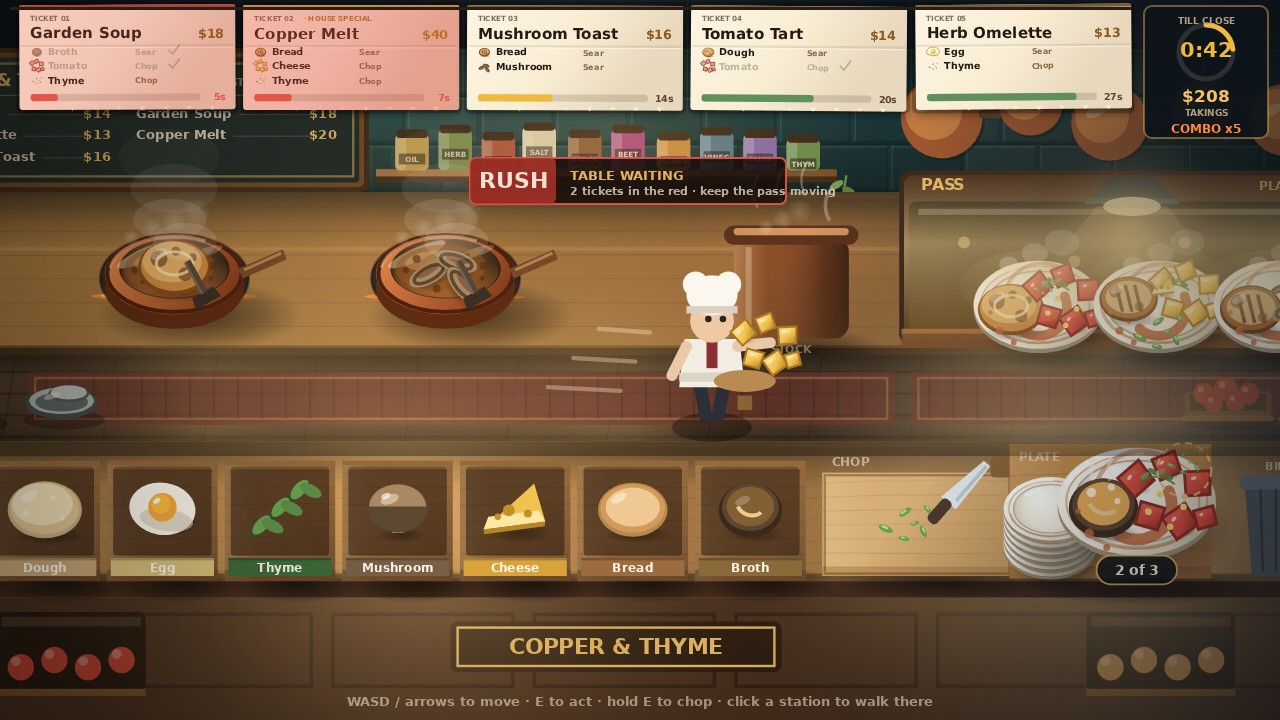
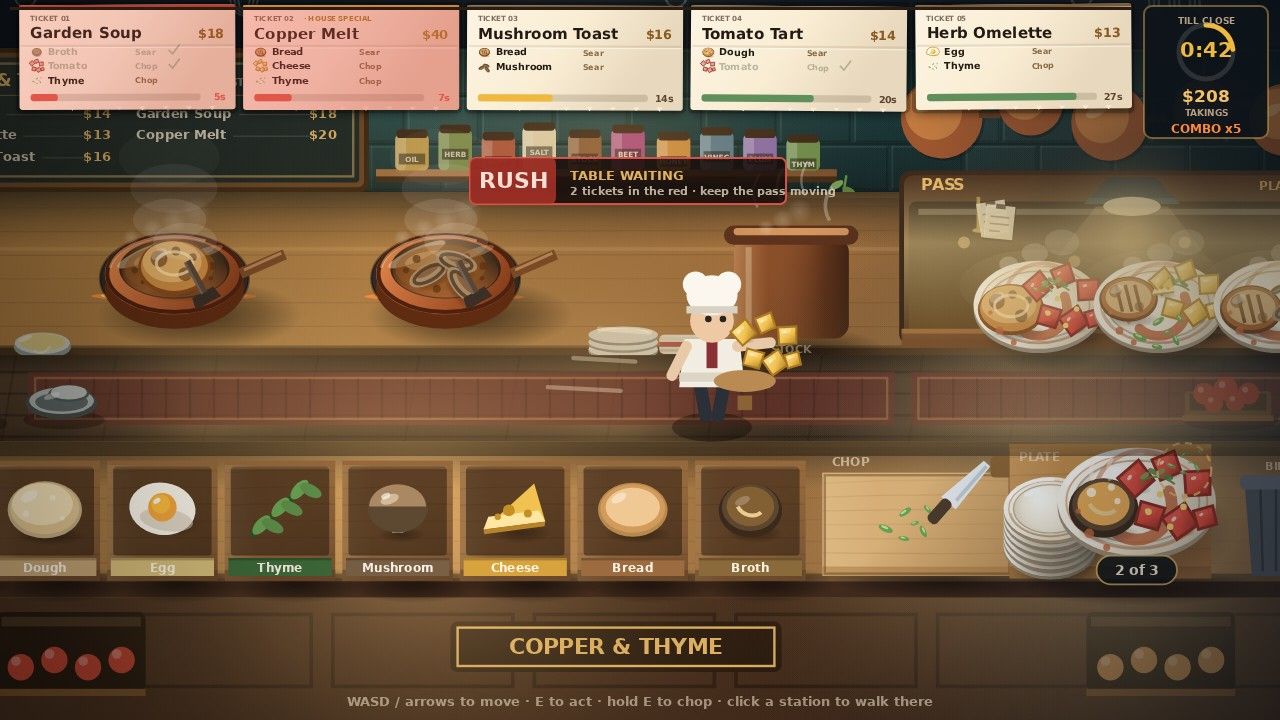
The wall, the bench and the pass: dockets and tools over the rail, a board with an onion and the plates on the far counter, clean plates and a docket spike on the pass shelf

Changed region(s): [[0.4375, 0.4278, 0.5625, 0.5194], [0.75, 0.275, 0.8125, 0.3361], [0.0, 0.4583, 0.0625, 0.4889]]

diff --git a/game/src/room.js b/game/src/room.js
@@ -189,6 +189,236 @@ function hangingPans(ctx, t) {
   }
 }
 
+/**
+ * The wall over the rail: one brass rod, the tools a line hangs on it and a run of dockets clipped
+ * along it, plus a column of chalk tallies. It sits behind the tickets in a stop darker than the
+ * cream paper, so the band above the wall is dressed without ever competing with an order card.
+ */
+function wallDressing(ctx) {
+  const rodY = 38;
+  const rod = ctx.createLinearGradient(0, rodY, 0, rodY + 6);
+  rod.addColorStop(0, 'rgba(226,190,132,0.42)');
+  rod.addColorStop(0.42, 'rgba(136,102,62,0.62)');
+  rod.addColorStop(1, 'rgba(40,28,16,0.55)');
+  ctx.fillStyle = rod;
+  ctx.fillRect(16, rodY, 1024, 5);
+  for (const bx of [16, 1036]) {
+    ctx.fillStyle = 'rgba(44,30,16,0.55)';
+    ctx.fillRect(bx - 3, rodY - 4, 8, 14);
+  }
+
+  // a pale silhouette per tool: bowl of a ladle, loops of a whisk, mesh of a sieve
+  const pale = 'rgba(206,232,222,0.26)';
+  const line = 'rgba(214,238,228,0.22)';
+  for (const [kind, tx] of [['ladle', 148], ['whisk', 330], ['sieve', 512], ['ladle', 690], ['ladle', 1028], ['sieve', 1072]]) {
+    ctx.strokeStyle = pale;
+    ctx.lineWidth = 2.4;
+    ctx.beginPath();
+    ctx.moveTo(tx, rodY + 5);
+    ctx.lineTo(tx, kind === 'sieve' ? rodY + 44 : rodY + 52);
+    ctx.stroke();
+    ctx.fillStyle = 'rgba(24,34,32,0.55)';
+    if (kind === 'ladle') {
+      ctx.beginPath();
+      ctx.ellipse(tx, rodY + 60, 9, 10, 0, 0, Math.PI * 2);
+      ctx.fill();
+      ctx.strokeStyle = pale;
+      ctx.lineWidth = 2;
+      ctx.beginPath();
+      ctx.ellipse(tx, rodY + 60, 9, 10, 0, 0, Math.PI * 2);
+      ctx.stroke();
+    } else if (kind === 'whisk') {
+      ctx.strokeStyle = line;
+      ctx.lineWidth = 1.6;
+      for (let i = 0; i < 3; i += 1) {
+        ctx.beginPath();
+        ctx.ellipse(tx, rodY + 60, 5 + i * 3.4, 13 + i * 2, 0, 0, Math.PI * 2);
+        ctx.stroke();
+      }
+    } else {
+      ctx.beginPath();
+      ctx.ellipse(tx, rodY + 52, 13, 5, 0, 0, Math.PI * 2);
+      ctx.fill();
+      ctx.strokeStyle = pale;
+      ctx.lineWidth = 1.8;
+      ctx.beginPath();
+      ctx.ellipse(tx, rodY + 52, 13, 5, 0, 0, Math.PI * 2);
+      ctx.stroke();
+      ctx.strokeStyle = 'rgba(206,232,222,0.14)';
+      ctx.lineWidth = 1;
+      for (let i = -2; i <= 2; i += 1) {
+        ctx.beginPath();
+        ctx.moveTo(tx + i * 5, rodY + 48);
+        ctx.lineTo(tx + i * 5, rodY + 56);
+        ctx.stroke();
+      }
+    }
+  }
+
+  // the run of order dockets: flimsy, clipped, each a shade off the wall
+  for (const [dx, tilt] of [[866, -0.05], [910, 0.03], [954, -0.02]]) {
+    ctx.save();
+    ctx.translate(dx, rodY + 6);
+    ctx.rotate(tilt);
+    ctx.fillStyle = 'rgba(10,18,18,0.34)';
+    ctx.fillRect(2, 3, 36, 52);
+    ctx.fillStyle = 'rgba(226,216,192,0.2)';
+    ctx.fillRect(0, 0, 36, 52);
+    ctx.strokeStyle = 'rgba(196,222,212,0.14)';
+    ctx.lineWidth = 1;
+    ctx.strokeRect(0.5, 0.5, 35, 51);
+    ctx.fillStyle = 'rgba(206,232,222,0.2)';
+    for (let i = 0; i < 4; i += 1) ctx.fillRect(6, 12 + i * 9, i === 3 ? 14 : 24, 1.6);
+    ctx.fillStyle = 'rgba(60,74,66,0.7)';
+    ctx.fillRect(14, -3, 8, 7);
+    ctx.restore();
+  }
+
+  // chalk tallies, one column, ticked through the shift
+  ctx.strokeStyle = 'rgba(214,240,228,0.2)';
+  ctx.lineWidth = 2;
+  for (let group = 0; group < 3; group += 1) {
+    const gx = 1084 + group * 17;
+    for (let i = 0; i < 3; i += 1) {
+      ctx.beginPath();
+      ctx.moveTo(gx + i * 4, 96);
+      ctx.lineTo(gx + i * 4 + 1, 120);
+      ctx.stroke();
+    }
+    if (group === 2) {
+      ctx.beginPath();
+      ctx.moveTo(gx - 2, 108);
+      ctx.lineTo(gx + 12, 112);
+      ctx.stroke();
+    }
+  }
+}
+
+/**
+ * The far counter's working stretch: the board with a half onion and the knife that cut it, the
+ * bowl of beaten egg, and a stack of clean plates with a cloth, each with its contact shadow. Set
+ * down in the gaps the pans leave, never in front of them.
+ */
+function prepBench(ctx) {
+  const base = 399;
+
+  // board, onion, knife
+  ctx.save();
+  castShadow(ctx, 62, base - 4, 56, 12, 0.42);
+  fillRound(ctx, 16, base - 22, 92, 22, 5, '#9d6c3b');
+  ctx.fillStyle = 'rgba(255,232,190,0.22)';
+  ctx.fillRect(20, base - 22, 84, 3);
+  ctx.fillStyle = 'rgba(52,32,16,0.28)';
+  ctx.fillRect(20, base - 4, 84, 3);
+  ctx.strokeStyle = 'rgba(60,38,18,0.35)';
+  ctx.lineWidth = 1;
+  for (let i = 0; i < 3; i += 1) {
+    ctx.beginPath();
+    ctx.moveTo(24, base - 17 + i * 5);
+    ctx.quadraticCurveTo(62, base - 18 + i * 5, 100, base - 16 + i * 5);
+    ctx.stroke();
+  }
+  // half onion, cut face up
+  ctx.fillStyle = '#e8dcc0';
+  ctx.beginPath();
+  ctx.ellipse(52, base - 25, 17, 11, 0, 0, Math.PI * 2);
+  ctx.fill();
+  ctx.fillStyle = '#f6efe0';
+  ctx.beginPath();
+  ctx.ellipse(52, base - 27, 14, 8, 0, 0, Math.PI * 2);
+  ctx.fill();
+  ctx.strokeStyle = 'rgba(160,120,140,0.55)';
+  ctx.lineWidth = 1;
+  for (let r = 3; r <= 11; r += 4) {
+    ctx.beginPath();
+    ctx.ellipse(52, base - 27, r, r * 0.55, 0, 0, Math.PI * 2);
+    ctx.stroke();
+  }
+  ctx.fillStyle = 'rgba(196,168,140,0.8)';
+  ctx.beginPath();
+  ctx.ellipse(52, base - 27, 2.5, 1.6, 0, 0, Math.PI * 2);
+  ctx.fill();
+  // the knife, laid down where the hand left it
+  ctx.save();
+  ctx.translate(88, base - 32);
+  ctx.rotate(-0.22);
+  ctx.fillStyle = 'rgba(12,18,20,0.3)';
+  ctx.beginPath();
+  ctx.ellipse(4, 4, 21, 4, 0, 0, Math.PI * 2);
+  ctx.fill();
+  ctx.fillStyle = '#c9d2cf';
+  ctx.beginPath();
+  ctx.moveTo(-16, -3.5);
+  ctx.lineTo(9, -1.5);
+  ctx.lineTo(9, 2.5);
+  ctx.lineTo(-16, 3.5);
+  ctx.closePath();
+  ctx.fill();
+  ctx.fillStyle = 'rgba(255,255,255,0.55)';
+  ctx.fillRect(-14, -2.5, 22, 1.4);
+  ctx.fillStyle = '#59391f';
+  fillRound(ctx, 9, -3, 15, 6, 2, '#59391f');
+  ctx.restore();
+  ctx.restore();
+
+  // bowl of beaten egg
+  ctx.save();
+  castShadow(ctx, 162, base - 2, 30, 9, 0.4);
+  ctx.fillStyle = '#8d9c96';
+  ctx.beginPath();
+  ctx.ellipse(162, base - 8, 24, 10, 0, 0, Math.PI * 2);
+  ctx.fill();
+  ctx.fillStyle = '#d7dcd4';
+  ctx.beginPath();
+  ctx.ellipse(162, base - 11, 23, 9, 0, 0, Math.PI * 2);
+  ctx.fill();
+  ctx.fillStyle = '#e8d489';
+  ctx.beginPath();
+  ctx.ellipse(162, base - 12, 19, 7, 0, 0, Math.PI * 2);
+  ctx.fill();
+  ctx.strokeStyle = 'rgba(255,250,214,0.7)';
+  ctx.lineWidth = 1.6;
+  ctx.beginPath();
+  ctx.arc(160, base - 12, 9, 0.4, 2.2);
+  ctx.stroke();
+  ctx.fillStyle = 'rgba(255,255,255,0.5)';
+  ctx.beginPath();
+  ctx.ellipse(148, base - 15, 6, 2, -0.4, 0, Math.PI * 2);
+  ctx.fill();
+  ctx.restore();
+
+  // clean plates, stacked, and the cloth they were dried with
+  ctx.save();
+  castShadow(ctx, 646, base - 3, 34, 10, 0.4);
+  for (let i = 0; i < 3; i += 1) {
+    const py = base - 6 - i * 6;
+    ctx.fillStyle = '#8c9187';
+    ctx.beginPath();
+    ctx.ellipse(646, py + 2, 29, 7, 0, 0, Math.PI * 2);
+    ctx.fill();
+    ctx.fillStyle = '#e2ddcd';
+    ctx.beginPath();
+    ctx.ellipse(646, py, 29, 7, 0, 0, Math.PI * 2);
+    ctx.fill();
+    ctx.strokeStyle = 'rgba(255,255,255,0.6)';
+    ctx.lineWidth = 1.2;
+    ctx.beginPath();
+    ctx.ellipse(646, py - 1, 21, 4.6, 0, Math.PI, Math.PI * 2);
+    ctx.stroke();
+  }
+  ctx.restore();
+  ctx.save();
+  castShadow(ctx, 700, base - 2, 26, 7, 0.32);
+  fillRound(ctx, 676, base - 18, 50, 16, 4, '#e4d9c1');
+  ctx.fillStyle = 'rgba(164,54,44,0.85)';
+  ctx.fillRect(676, base - 12, 50, 4);
+  ctx.fillStyle = 'rgba(0,0,0,0.14)';
+  ctx.fillRect(676, base - 6, 50, 2);
+  ctx.fillStyle = 'rgba(255,255,255,0.22)';
+  ctx.fillRect(678, base - 18, 46, 2);
+  ctx.restore();
+}
+
 /** The far counter: the hot line, the stock pot and the shelf under it. */
 function backCounter(ctx, t) {
   plank(ctx, L, BACK.top, W, BACK.bottom - BACK.top, PALETTE.counter, '#6b4526', PALETTE.counterTop);
@@ -428,11 +658,13 @@ export function drawRoom(ctx, t) {
   ctx.fillStyle = PALETTE.night;
   ctx.fillRect(L, WALL.top - 320, W, BOTTOM - WALL.top + 320);
   tileWall(ctx);
+  wallDressing(ctx);
   chalkboard(ctx);
   shelf(ctx);
   hangingPans(ctx, t);
   lightPool(ctx, 640, WALL.bottom, 260, 'rgba(255,206,132,0.4)', 0.4);
   backCounter(ctx, t);
+  prepBench(ctx);
   barFront(ctx);
   aisle(ctx);
   frontCounter(ctx);

diff --git a/game/src/pass.js b/game/src/pass.js
@@ -2,7 +2,7 @@
 // when a dish goes out — the lamp flares, the plate slides under it, and it fades as the room takes
 // it away. The pass is the end of every route through the kitchen, so it gets the brightest light.
 import { FONT, PALETTE } from './config.js';
-import { drawDish } from './food.js';
+import { drawDish, drawPlateBase } from './food.js';
 import { fillRound, castShadow, lightPool, steamPuff } from './paint.js';
 
 const PLATE_LIFE = 9;
@@ -118,6 +118,62 @@ export function drawPass(ctx, pass, t) {
 
   // every plate waiting under the lamp, newest nearest the middle
   const shelfY = box.y + box.h - 12;
+
+  // the shelf's own kit, at the near end by the bell: clean plates waiting in a stack and the
+  // service cloth folded beside them. Drawn before the waiting dishes so a dish sits in front.
+  const nearX = box.x + box.w * 0.62;
+  castShadow(ctx, nearX, shelfY - 4, 40, 12, 0.45);
+  for (let i = 0; i < 3; i += 1) {
+    const py = shelfY - 6 - i * 6;
+    ctx.fillStyle = 'rgba(96,84,62,0.55)';
+    ctx.beginPath();
+    ctx.ellipse(nearX, py + 2, 30, 7, 0, 0, Math.PI * 2);
+    ctx.fill();
+    ctx.fillStyle = '#e7ddc6';
+    ctx.beginPath();
+    ctx.ellipse(nearX, py, 30, 7, 0, 0, Math.PI * 2);
+    ctx.fill();
+    ctx.strokeStyle = 'rgba(255,250,235,0.65)';
+    ctx.lineWidth = 1.2;
+    ctx.beginPath();
+    ctx.ellipse(nearX, py - 1.5, 21, 4.4, 0, Math.PI, Math.PI * 2);
+    ctx.stroke();
+  }
+  castShadow(ctx, nearX + 58, shelfY - 2, 22, 7, 0.3);
+  fillRound(ctx, nearX + 36, shelfY - 18, 46, 14, 4, '#efe5cd');
+  ctx.fillStyle = 'rgba(168,56,44,0.8)';
+  ctx.fillRect(nearX + 36, shelfY - 12, 46, 3.5);
+  ctx.fillStyle = 'rgba(0,0,0,0.14)';
+  ctx.fillRect(nearX + 36, shelfY - 7, 46, 2);
+  ctx.fillStyle = 'rgba(255,255,255,0.3)';
+  ctx.fillRect(nearX + 38, shelfY - 18, 42, 2);
+
+  // the docket spike hung on the frame, its tickets still curled from the pass
+  ctx.save();
+  ctx.translate(box.x + 58, box.y - 4);
+  ctx.fillStyle = 'rgba(0,0,0,0.35)';
+  ctx.fillRect(-2, 0, 4, 30);
+  ctx.fillStyle = '#b08b46';
+  ctx.fillRect(-1.6, 0, 3.2, 28);
+  ctx.beginPath();
+  ctx.ellipse(0, 28, 5, 2, 0, 0, Math.PI * 2);
+  ctx.fill();
+  for (const [dx, tilt] of [[-2, -0.16], [7, 0.1]]) {
+    ctx.save();
+    ctx.translate(dx, 6);
+    ctx.rotate(tilt);
+    ctx.fillStyle = 'rgba(20,14,8,0.45)';
+    ctx.fillRect(1, 2, 24, 28);
+    ctx.fillStyle = 'rgba(240,228,200,0.86)';
+    ctx.fillRect(0, 0, 24, 28);
+    ctx.fillStyle = 'rgba(90,70,44,0.5)';
+    for (let i = 0; i < 3; i += 1) ctx.fillRect(4, 9 + i * 6, i === 2 ? 9 : 16, 1.4);
+    ctx.fillStyle = 'rgba(58,42,24,0.8)';
+    ctx.fillRect(8, -1, 8, 4);
+    ctx.restore();
+  }
+  ctx.restore();
+
   for (let i = 0; i < pass.plates.length; i += 1) {
     const plate = pass.plates[i];
     const age = 1 - plate.life;
